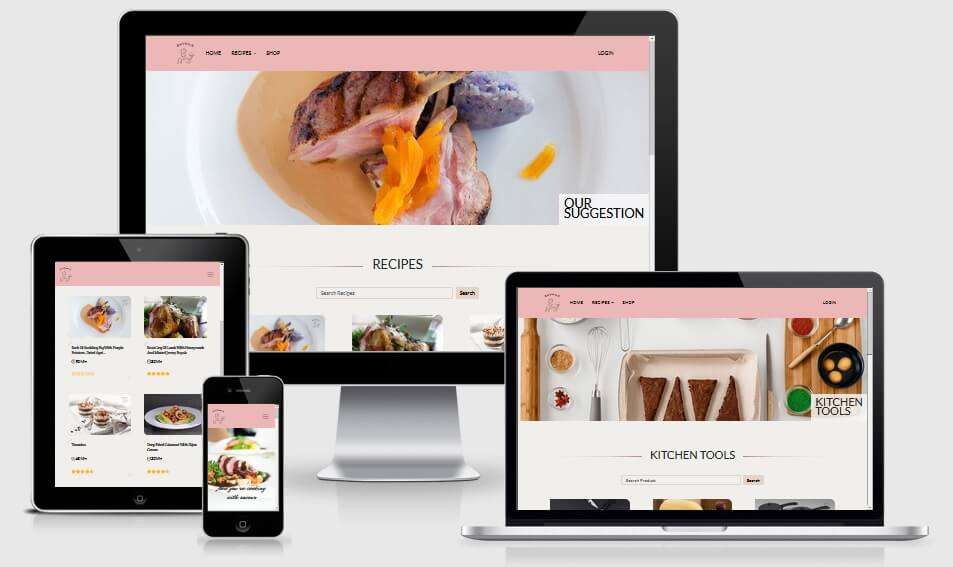
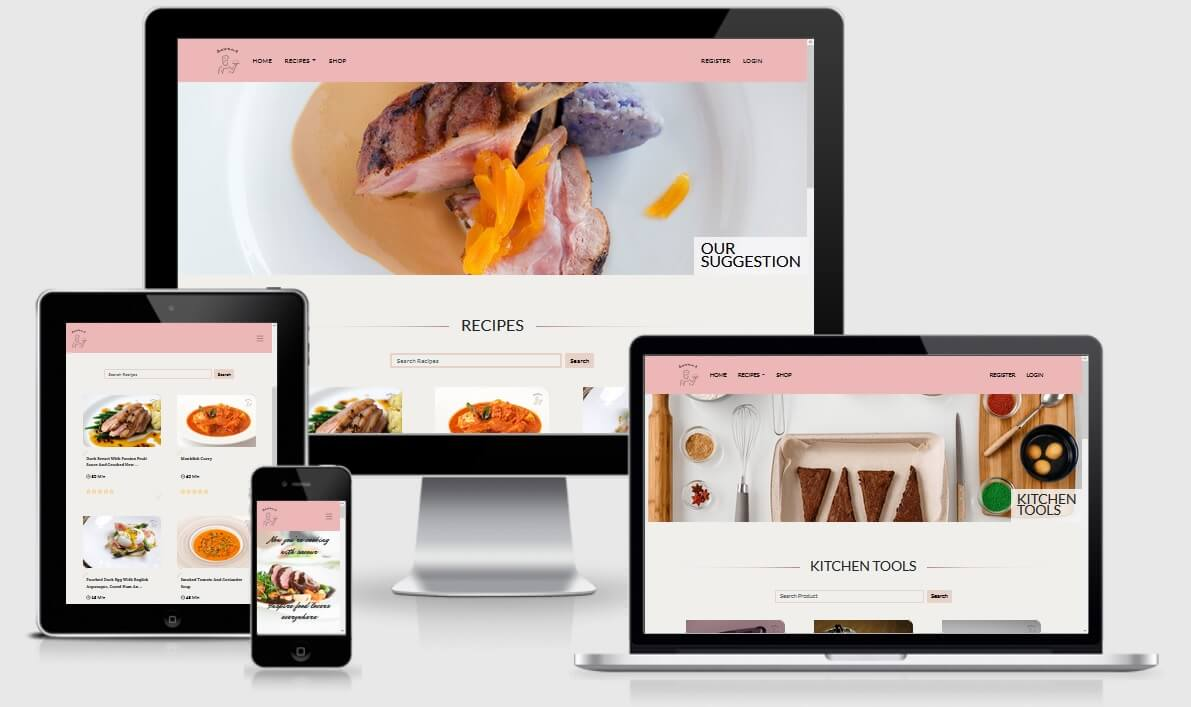
[Docs] Update Home page on existing features

diff --git a/README.md b/README.md
@@ -131,9 +131,9 @@ Savour is a web app build to attract all categories of users that are interested
             
             - Landing section - Where the user it's welcome with a hero image and welcome text.
 
-            - Recipe section - Where the user can see three random recipes
+            - Recipe section - Where the user can see the most recent recipes uploaded
 
-            - Shop section - Where the user can see three random kitchen tools
+            - Shop section - Where the user can see the most recent kitchen tools uploaded
 
             - Footer - Where user can find links to site social media pages
 
